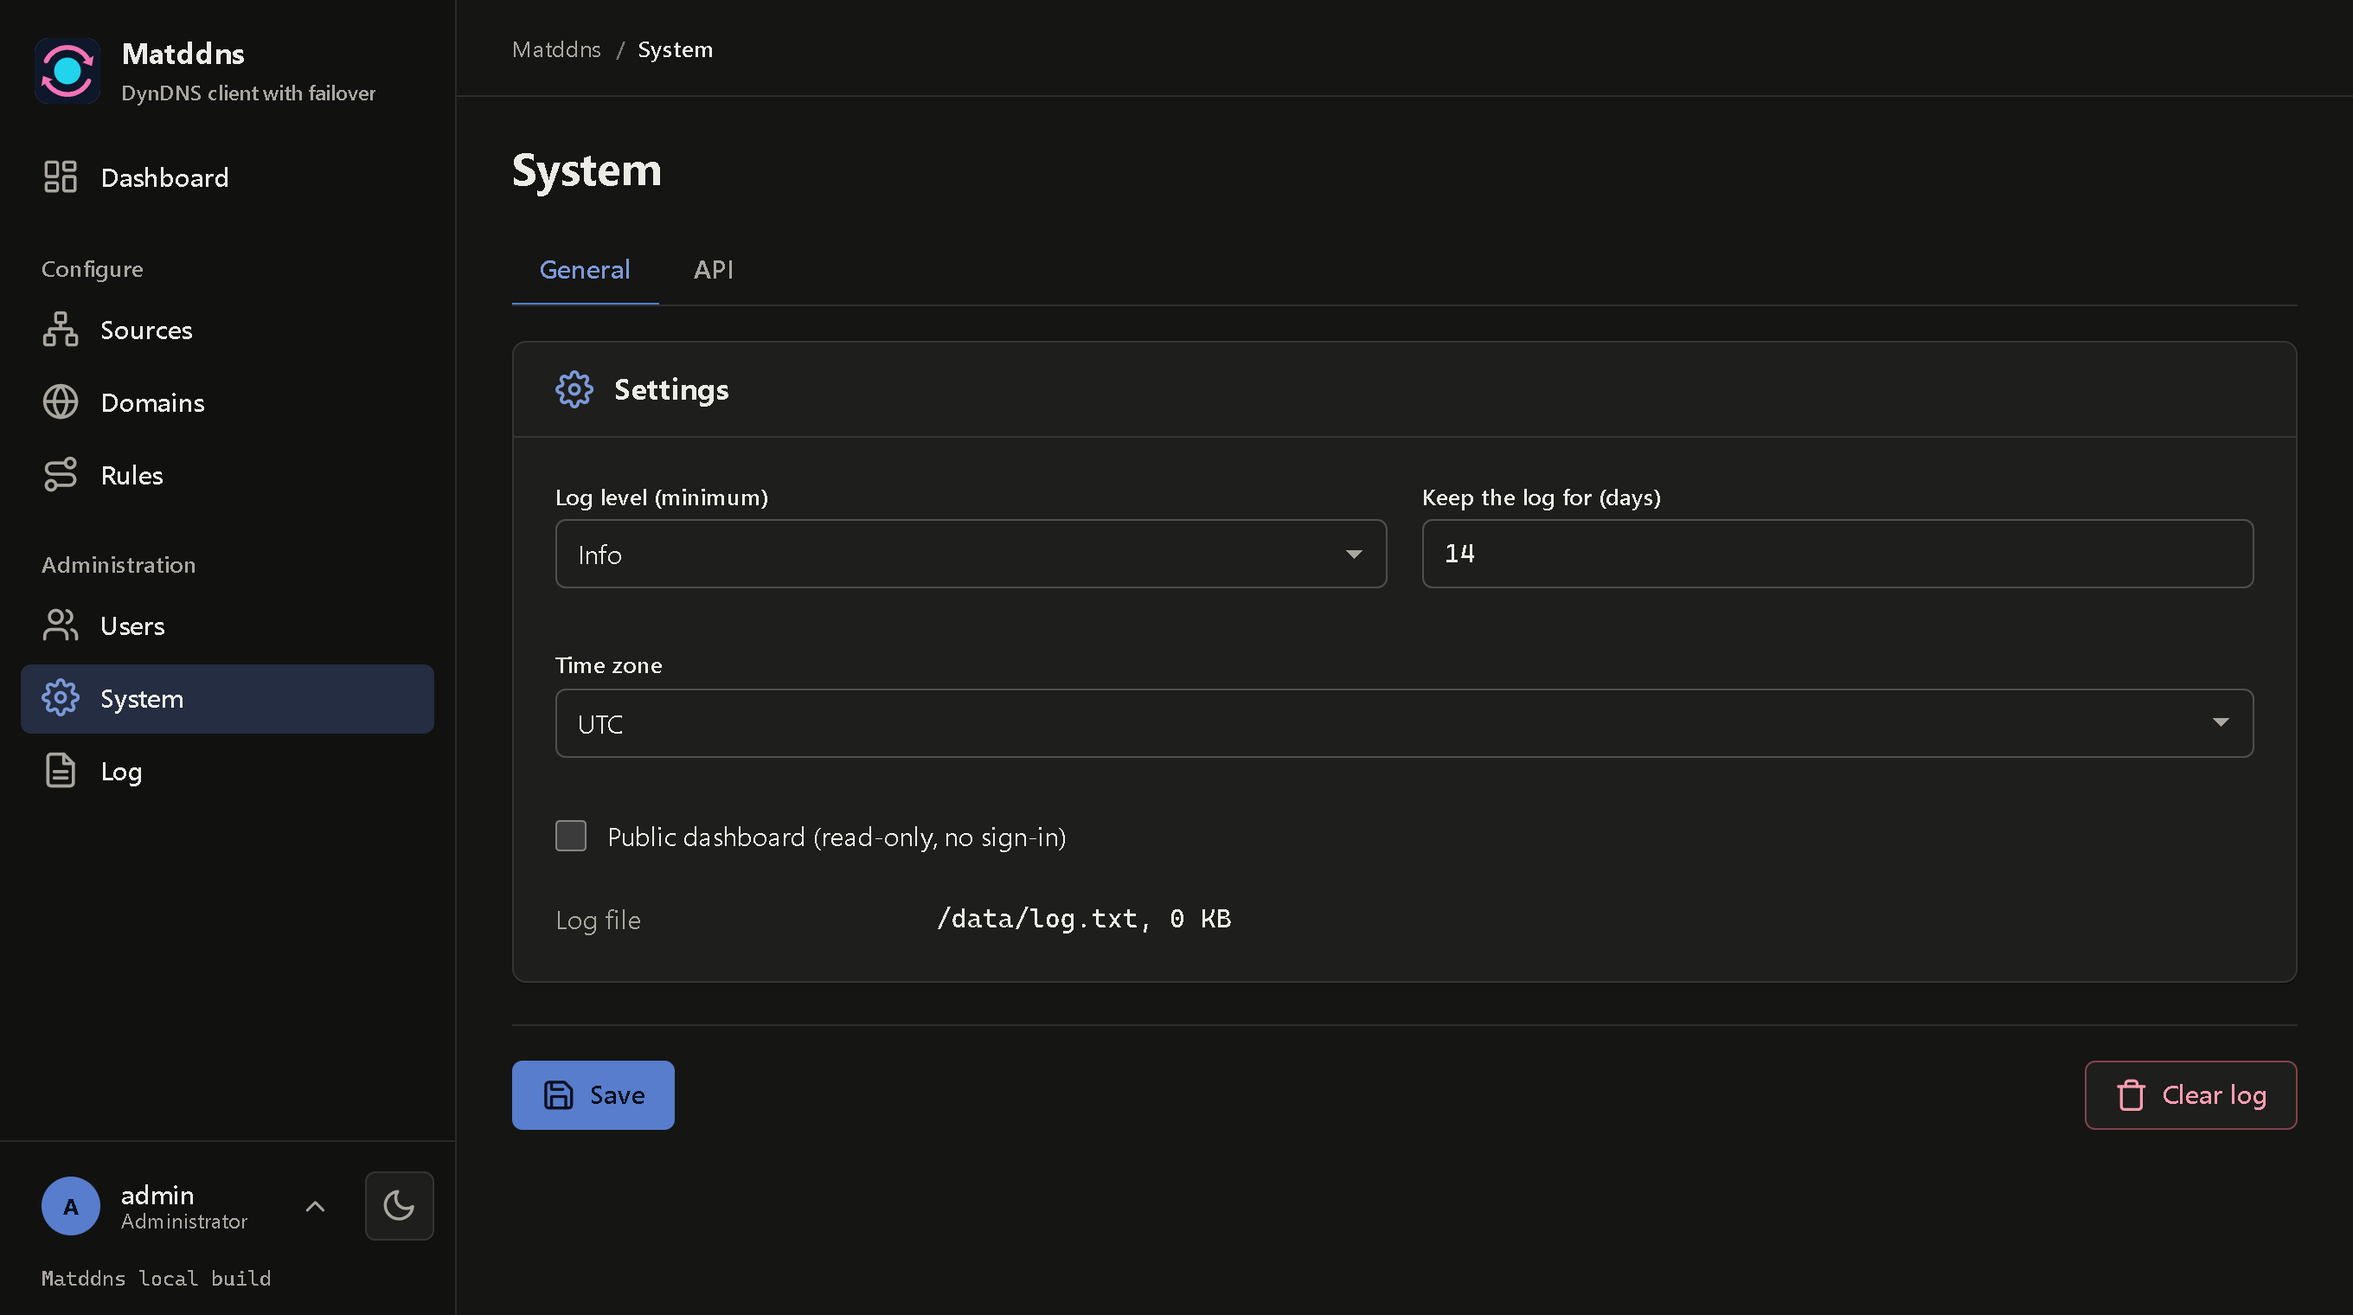
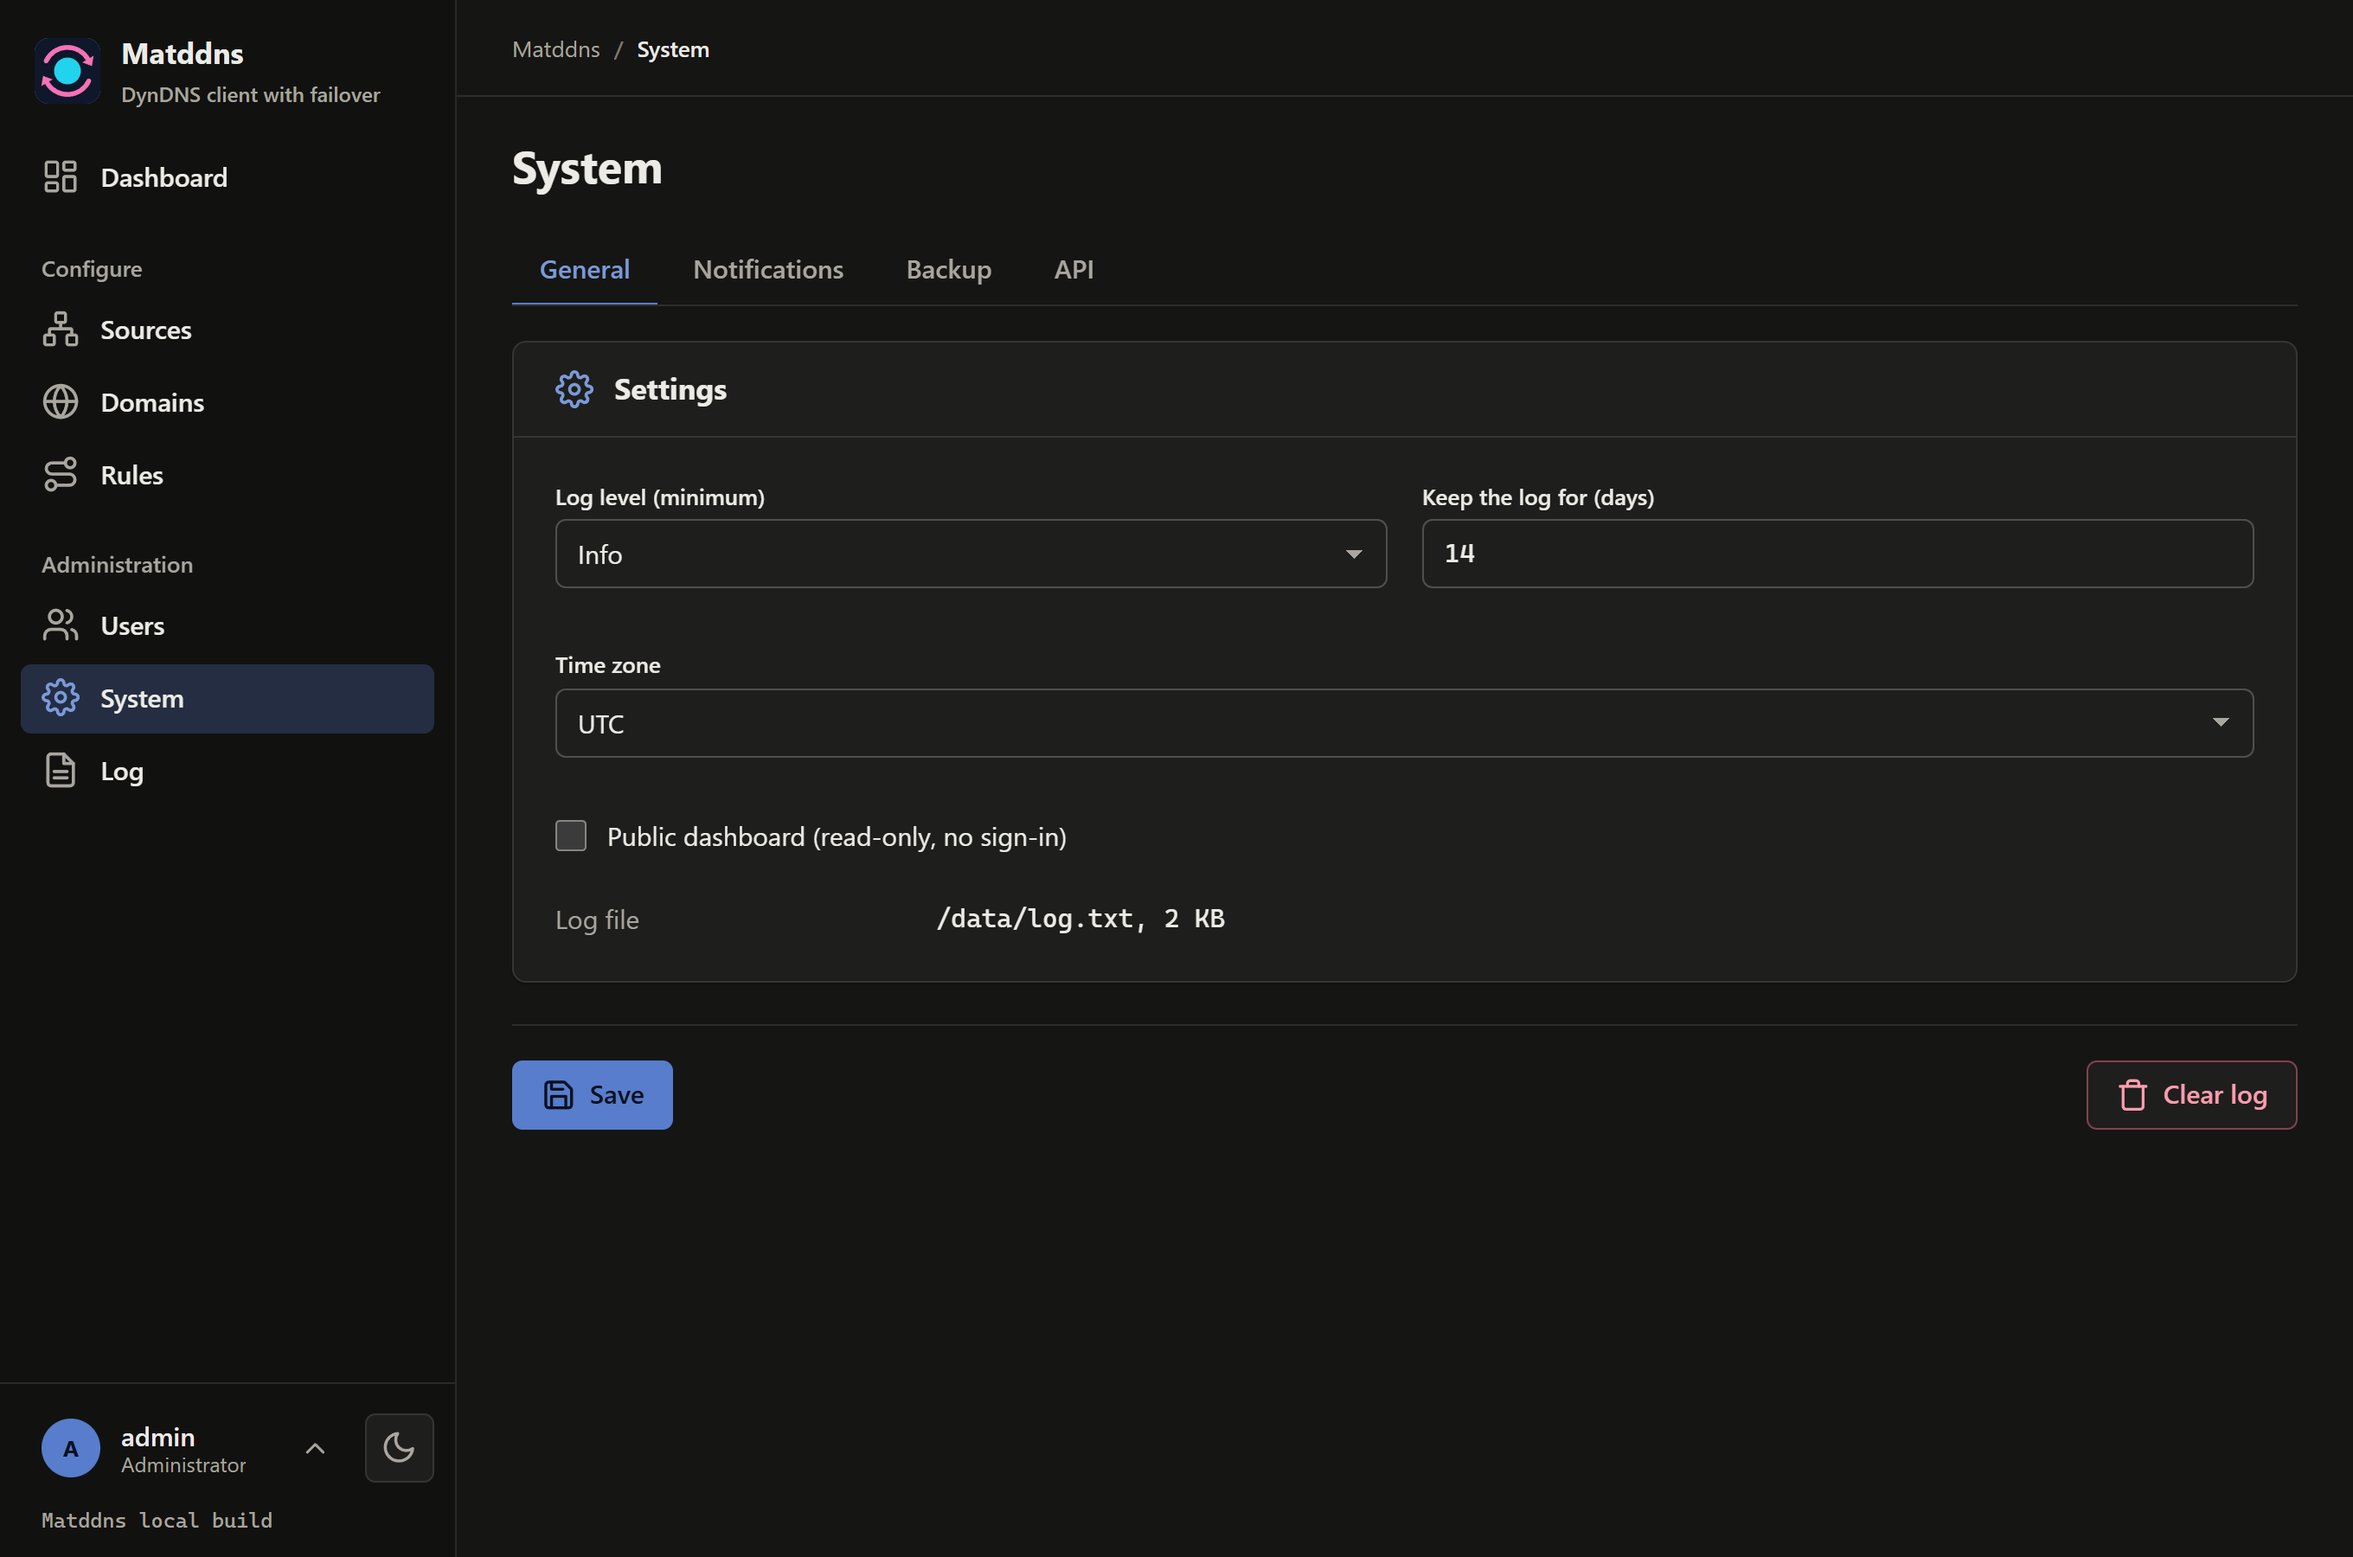
New screenshots: dashboard, sources, rule, domains, system, phone; add history and notifications
Taken with Edge (Playwright) from a local run on a temporary data directory filled through
/api/v1 with invented demo data (static and pushed sources, DynDNS zones on a local stub).
The dashboard no longer shows the removed Domains table; captions follow the pages.

diff --git a/README.md b/README.md
@@ -16,7 +16,7 @@ to the first reachable source. One container, no cloud, no third-party services.
 
 </div>
 
-![The dashboard with health, sources, rules and recent changes](docs/images/dashboard.png)
+![The dashboard: health tiles, the sources, the rules with their failover order and the recent IP changes](docs/images/dashboard.png)
 
 ---
 
@@ -51,7 +51,7 @@ its IP into Matddns just like it would to any DynDNS provider.
 - **Failover rules**: a record is bound to an ordered list of sources; the first reachable wins
 - **Reachability validation**: a source counts only if its IP answers a **ping** or a **TCP-port** check
 - **History and notifications**: every change of a record is kept (value, before, source); e-mail or a webhook (JSON, ntfy, Gotify)
-  on a new IP, a failed update and the recovery; failed updates are retried with a growing wait
+  on a new IP, a failed update, a failing source and each recovery; failed updates are retried with a growing wait
 - **Backup**: export and import of the whole configuration
 - **Dual-stack**: every source carries an optional IPv4 and IPv6 (IPv6-only works too)
 - **Multi-user login** with **rate-limited sign-in**, a per-install **time zone**, an adjustable
@@ -67,7 +67,7 @@ its IP into Matddns just like it would to any DynDNS provider.
 
 ### Sources – every WAN and its current IP
 
-![The sources list, grouped by source with one row per WAN](docs/images/sources.png)
+![The sources list with the current IPv4 and IPv6 of each source and its state](docs/images/sources.png)
 
 Each source keeps its current IPv4 and IPv6. UniFi WANs (and cloud gateways) appear
 automatically, one row per WAN including LTE failover.
@@ -79,11 +79,25 @@ automatically, one row per WAN including LTE failover.
 A rule links one DNS record to an ordered list of sources. The first reachable one wins;
 ping/TCP validation and the check interval are set per rule.
 
-### Domains and the dashboard
+### History – every IP a record had
+
+![The history of a record: time, new value, the value before and the source it came from](docs/images/history.png)
+
+Every change of a record is kept with the value before and the source it came from, on the rule page and as
+*Recent IP changes* on the dashboard.
+
+### Notifications – mail and webhooks
+
+![System, Notifications: when to tell, e-mail over SMTP and a webhook in ntfy format](docs/images/notifications.png)
+
+*System → Notifications* sends a message when a record gets a new IP, fails or works again, and when a source fails or
+works again, by e-mail and/or a webhook (JSON, ntfy, Gotify). With MatSMTP the server fields are fixed (see [Notifications](#notifications)).
+
+### Domains and the system settings
 
 | Domains | System |
 |---|---|
-| ![The domains list grouped by zone](docs/images/domains.png) | ![The system settings tabs](docs/images/system.png) |
+| ![The domain groups with their provider and records](docs/images/domains.png) | ![The system settings: general, notifications, backup and API tabs](docs/images/system.png) |
 
 Domains group your records per provider zone; System holds the general settings and the API
 docs, Users and Log sit next to it under Administration.
